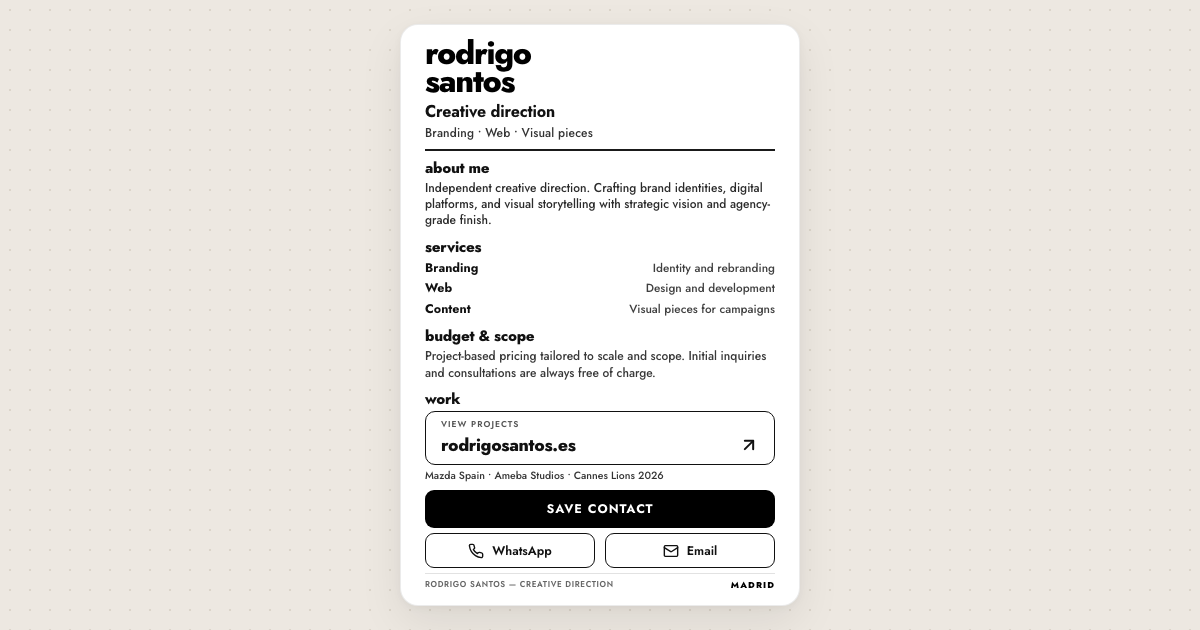
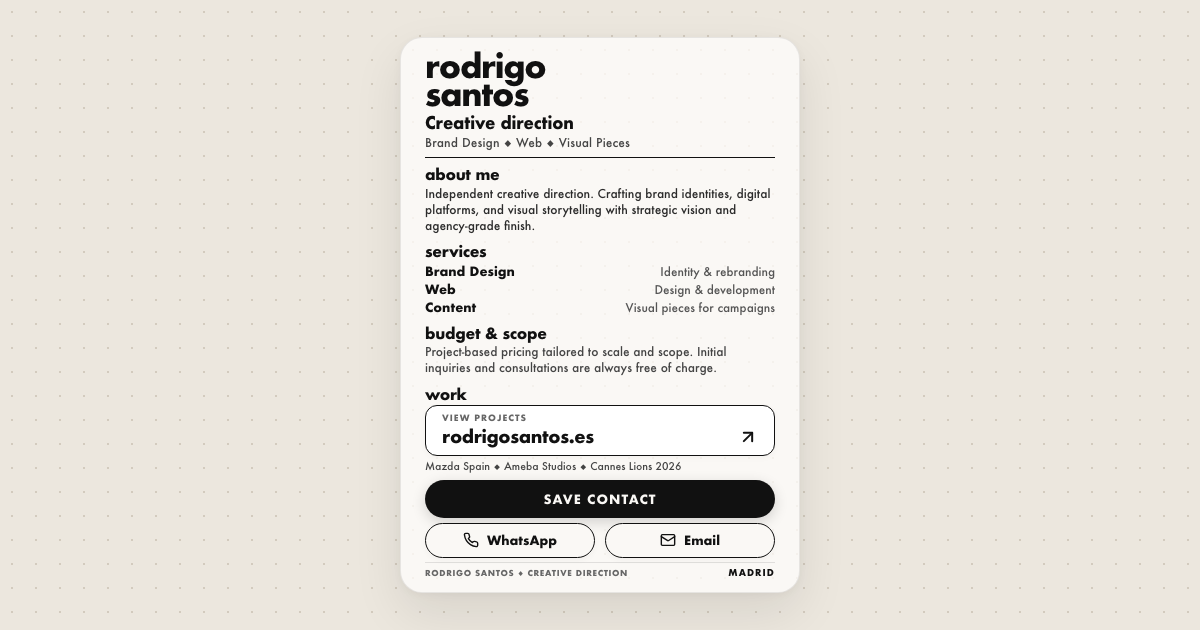
design(vcard): align card with website visual identity and editorial tokens

Changed region(s): [[0.3392, 0.0302, 0.6783, 0.9651], [0.5242, 0.4222, 0.6475, 0.5127], [0.6167, 0.6937, 0.6475, 0.7238]]

diff --git a/src/components/VirtualCard/VirtualCard.css b/src/components/VirtualCard/VirtualCard.css
@@ -1,6 +1,10 @@
 /* =======================================================
    Virtual Business Card — Rodrigo Santos (/hola & /hello)
-   Solid editorial layout: bold type & tight section spacing
+   Matches the exact design language of rodrigosantos.es:
+   - Ivory paper sheet (#FAF8F5) on studio dot grid (#ECE7DE)
+   - Pill / capsule action buttons (border-radius: 999px)
+   - Exclusively Futura / Jost typography with tight line-height
+   - Subtle paper grain & tactile micro-interactions
    ======================================================= */
 
 .vcard-page {
@@ -12,19 +16,19 @@
   display: flex;
   justify-content: center;
   align-items: center;
-  /* Warm subtle studio paper background */
-  background-color: #EDE8E1;
-  background-image: radial-gradient(#dcd5ca 0.75px, transparent 0.75px);
-  background-size: 20px 20px;
+  /* Studio canvas backdrop matching CurriculumVitae.css & index.css */
+  background-color: #ECE7DE;
+  background-image: radial-gradient(#d3cbbe 0.75px, transparent 0.75px);
+  background-size: 24px 24px;
   color: #111111;
-  font-family: 'Jost', 'Futura', -apple-system, BlinkMacSystemFont, 'Segoe UI', Roboto, sans-serif;
+  font-family: var(--font-body, 'Futura', 'Futura-Medium', 'Jost', sans-serif);
   -webkit-font-smoothing: antialiased;
   -moz-osx-font-smoothing: grayscale;
   padding: clamp(8px, 1.8vh, 18px) clamp(10px, 3vw, 20px);
   box-sizing: border-box;
 }
 
-/* Card Container — rounded, compact, content-focused */
+/* Card Sheet — Luxury ivory paper with subtle grain & rounded corners */
 .vcard-container {
   width: 100%;
   max-width: 400px;
@@ -38,11 +42,24 @@
   flex-direction: column;
   justify-content: space-between;
   padding: clamp(14px, 2.1vh, 22px) clamp(18px, 4.8vw, 24px);
-  background-color: #ffffff;
-  border-radius: 18px;
+  background-color: #FAF8F5;
+  border-radius: 22px;
   border: 1px solid rgba(0, 0, 0, 0.08);
-  box-shadow: 0 16px 44px rgba(0, 0, 0, 0.08), 0 2px 8px rgba(0, 0, 0, 0.04);
+  box-shadow: 0 20px 50px rgba(0, 0, 0, 0.09), 0 2px 8px rgba(0, 0, 0, 0.04);
   box-sizing: border-box;
+  position: relative;
+}
+
+/* Delicate subtle paper grain matching the portfolio sheet */
+.vcard-container::before {
+  content: '';
+  position: absolute;
+  inset: 0;
+  border-radius: 22px;
+  background-image: radial-gradient(#d3cbbe 0.75px, transparent 0.75px);
+  background-size: 24px 24px;
+  opacity: 0.15;
+  pointer-events: none;
 }
 
 .vcard-container::-webkit-scrollbar {
@@ -53,6 +70,8 @@
 .vcard-header {
   flex-shrink: 0;
   margin-bottom: clamp(6px, 1vh, 10px);
+  position: relative;
+  z-index: 2;
 }
 
 .vcard-brand {
@@ -61,13 +80,13 @@
 }
 
 .vcard-name {
-  font-family: 'Jost', 'Futura', sans-serif;
+  font-family: var(--font-display, 'Futura', 'Futura-Bold', 'Jost', sans-serif);
   font-size: clamp(32px, 4.4vh, 42px);
   font-weight: 800;
   line-height: 0.88;
   letter-spacing: -0.04em;
   text-transform: lowercase;
-  color: #000000;
+  color: #111111;
   margin: 0 0 clamp(4px, 0.7vh, 8px) 0;
   display: flex;
   flex-direction: column;
@@ -78,7 +97,7 @@
 }
 
 .vcard-role {
-  font-family: 'Jost', 'Futura', sans-serif;
+  font-family: var(--font-display, 'Futura', 'Futura-Medium', 'Jost', sans-serif);
   font-size: clamp(16px, 2.1vh, 19.5px);
   font-weight: 700;
   color: #111111;
@@ -89,7 +108,7 @@
 .vcard-tags {
   font-size: clamp(12px, 1.55vh, 13.8px);
   font-weight: 500;
-  color: #333333;
+  color: #444444;
   margin: 0;
   letter-spacing: 0.01em;
 }
@@ -97,7 +116,7 @@
 .vcard-divider {
   border: none;
   height: 1.2px;
-  background-color: #1a1a1a;
+  background-color: #111111;
   margin: clamp(7px, 1.1vh, 11px) 0 0 0;
 }
 
@@ -109,6 +128,8 @@
   justify-content: flex-start;
   gap: clamp(7px, 1.2vh, 12px);
   min-height: 0;
+  position: relative;
+  z-index: 2;
 }
 
 .vcard-section {
@@ -117,7 +138,7 @@
 }
 
 .vcard-section__title {
-  font-family: 'Jost', 'Futura', sans-serif;
+  font-family: var(--font-display, 'Futura', 'Futura-Bold', 'Jost', sans-serif);
   font-size: clamp(15px, 2vh, 18px);
   font-weight: 800;
   text-transform: lowercase;
@@ -135,7 +156,7 @@
 }
 
 .vcard-section__text--budget {
-  color: #383838;
+  color: #444444;
 }
 
 /* ---------- Services List ---------- */
@@ -162,7 +183,7 @@
 .vcard-service-desc {
   font-size: clamp(11.8px, 1.5vh, 13.5px);
   font-weight: 450;
-  color: #3f3f3f;
+  color: #555555;
   text-align: right;
   white-space: nowrap;
 }
@@ -170,31 +191,33 @@
 /* ---------- Work Card ---------- */
 .vcard-work-card {
   border: 1.5px solid #111111;
-  background-color: #ffffff;
-  padding: clamp(6px, 0.9vh, 9px) clamp(11px, 2.8vw, 15px);
+  background-color: #FFFFFF;
+  padding: clamp(6px, 0.9vh, 9px) clamp(12px, 2.8vw, 16px);
   display: flex;
   flex-direction: column;
   text-decoration: none;
   color: inherit;
-  transition: background-color 0.15s ease, transform 0.1s ease;
-  border-radius: 10px;
+  transition: all 0.2s cubic-bezier(0.25, 1, 0.5, 1);
+  border-radius: 12px;
   cursor: pointer;
+  box-shadow: 0 2px 6px rgba(0, 0, 0, 0.03);
 }
 
 .vcard-work-card:hover {
-  background-color: #f7f7f7;
+  background-color: #F4EFEB;
+  transform: translateY(-1px);
+  box-shadow: 0 6px 16px rgba(0, 0, 0, 0.07);
 }
 
 .vcard-work-card:active {
-  background-color: #eeeeee;
-  transform: scale(0.995);
+  transform: scale(0.99);
 }
 
 .vcard-work-card__top {
   font-size: clamp(8.5px, 1.15vh, 10px);
   font-weight: 600;
   letter-spacing: 0.12em;
-  color: #555555;
+  color: #666666;
   text-transform: uppercase;
   margin-bottom: 2px;
 }
@@ -206,7 +229,7 @@
 }
 
 .vcard-work-card__domain {
-  font-family: 'Jost', 'Futura', sans-serif;
+  font-family: var(--font-display, 'Futura', 'Futura-Bold', 'Jost', sans-serif);
   font-size: clamp(17.5px, 2.3vh, 21.5px);
   font-weight: 800;
   letter-spacing: -0.02em;
@@ -216,62 +239,70 @@
 .vcard-work-card__arrow {
   color: #111111;
   flex-shrink: 0;
-  transition: transform 0.15s ease;
+  transition: transform 0.2s ease;
 }
 
 .vcard-work-card:hover .vcard-work-card__arrow {
-  transform: translate(2px, -2px);
+  transform: translate(2.5px, -2.5px);
 }
 
 .vcard-work-credits {
   font-size: clamp(10.5px, 1.35vh, 12px);
   font-weight: 500;
-  color: #333333;
+  color: #444444;
   margin: clamp(3px, 0.45vh, 5px) 0 0 0;
 }
 
-/* ---------- Action Buttons ---------- */
+/* ---------- Action Buttons (Pill / Capsule Style) ---------- */
 .vcard-actions {
   flex-shrink: 0;
   display: flex;
   flex-direction: column;
   gap: clamp(5px, 0.8vh, 8px);
   margin-top: clamp(7px, 1.1vh, 12px);
+  position: relative;
+  z-index: 2;
 }
 
 .vcard-btn {
-  font-family: 'Jost', 'Futura', sans-serif;
+  font-family: var(--font-body, 'Futura', 'Futura-Medium', 'Jost', sans-serif);
   display: flex;
   align-items: center;
   justify-content: center;
-  border-radius: 9px;
+  border-radius: 999px;
   cursor: pointer;
   text-decoration: none;
-  transition: background-color 0.15s ease, opacity 0.15s ease, transform 0.1s ease;
+  transition: all 0.2s cubic-bezier(0.25, 1, 0.5, 1);
   user-select: none;
   -webkit-tap-highlight-color: transparent;
+  outline: none;
 }
 
 .vcard-btn:active {
-  transform: scale(0.99);
+  transform: scale(0.985);
 }
 
+/* Primary Button: Solid Dark Capsule with Hover Lift */
 .vcard-btn--primary {
   width: 100%;
   height: clamp(38px, 4.8vh, 45px);
-  background-color: #000000;
-  color: #ffffff;
+  background-color: #111111;
+  color: #FAF8F5;
   border: none;
   font-size: clamp(12.5px, 1.55vh, 14px);
   font-weight: 700;
   letter-spacing: 0.08em;
   text-transform: uppercase;
+  box-shadow: 0 4px 14px rgba(0, 0, 0, 0.16);
 }
 
 .vcard-btn--primary:hover {
-  background-color: #222222;
+  background-color: #000000;
+  transform: translateY(-1.5px);
+  box-shadow: 0 6px 20px rgba(0, 0, 0, 0.24);
 }
 
+/* Secondary Buttons Row */
 .vcard-btn-group {
   display: grid;
   grid-template-columns: 1fr 1fr;
@@ -281,16 +312,19 @@
 
 .vcard-btn--secondary {
   height: clamp(35px, 4.3vh, 41px);
-  background-color: #ffffff;
+  background-color: #FAF8F5;
   color: #111111;
-  border: 1.5px solid #111111;
+  border: 1.4px solid #111111;
   font-size: clamp(12.5px, 1.55vh, 14px);
   font-weight: 600;
   gap: 8px;
+  box-shadow: 0 2px 6px rgba(0, 0, 0, 0.04);
 }
 
 .vcard-btn--secondary:hover {
-  background-color: #f7f7f7;
+  background-color: #ECE7DE;
+  transform: translateY(-1.5px);
+  box-shadow: 0 4px 12px rgba(0, 0, 0, 0.08);
 }
 
 .vcard-btn--secondary svg {
@@ -301,12 +335,14 @@
 .vcard-footer {
   flex-shrink: 0;
   margin-top: clamp(4px, 0.7vh, 8px);
+  position: relative;
+  z-index: 2;
 }
 
 .vcard-footer-divider {
   border: none;
   height: 1px;
-  background-color: #e2e2e2;
+  background-color: rgba(0, 0, 0, 0.10);
   margin: 0 0 clamp(4px, 0.6vh, 6px) 0;
 }
 
@@ -328,6 +364,6 @@
   font-size: clamp(9px, 1.15vh, 10.5px);
   font-weight: 800;
   letter-spacing: 0.12em;
-  color: #000000;
+  color: #111111;
   text-transform: uppercase;
 }

diff --git a/src/components/VirtualCard/VirtualCard.jsx b/src/components/VirtualCard/VirtualCard.jsx
@@ -4,7 +4,7 @@ import './VirtualCard.css'
 const translations = {
   es: {
     role: 'Dirección creativa',
-    tags: 'Diseño de marca • Web • Piezas visuales',
+    tags: 'Diseño de marca ◆ Web ◆ Piezas visuales',
     aboutTitle: 'sobre mí',
     aboutText: 'Dirección creativa independiente. Diseño identidades de marca, plataformas web y narrativa audiovisual con visión estratégica y acabado de agencia.',
     servicesTitle: 'servicios',
@@ -17,36 +17,36 @@ const translations = {
     budgetText: 'Presupuesto por proyecto según escala y envergadura. Consultas y primeras conversaciones libres y sin compromiso.',
     workTitle: 'trabajos',
     viewProjects: 'VER PROYECTOS',
-    credits: 'Mazda España • Ameba Studios • Cannes Lions 2026',
+    credits: 'Mazda España ◆ Ameba Studios ◆ Cannes Lions 2026',
     saveContact: 'GUARDAR CONTACTO',
     whatsappMessage: 'Hola Rodrigo',
-    footerAuthor: 'RODRIGO SANTOS — DIRECCIÓN CREATIVA',
+    footerAuthor: 'RODRIGO SANTOS ◆ DIRECCIÓN CREATIVA',
     footerLocation: 'MADRID',
     vcardTitle: 'Dirección creativa',
     vcardNote: 'Dirección creativa independiente enfocada en diseño de marca, web y contenido con calidad de agencia.',
   },
   en: {
     role: 'Creative direction',
-    tags: 'Branding • Web • Visual pieces',
+    tags: 'Brand Design ◆ Web ◆ Visual Pieces',
     aboutTitle: 'about me',
     aboutText: 'Independent creative direction. Crafting brand identities, digital platforms, and visual storytelling with strategic vision and agency-grade finish.',
     servicesTitle: 'services',
     services: [
-      { name: 'Branding', desc: 'Identity and rebranding' },
-      { name: 'Web', desc: 'Design and development' },
+      { name: 'Brand Design', desc: 'Identity & rebranding' },
+      { name: 'Web', desc: 'Design & development' },
       { name: 'Content', desc: 'Visual pieces for campaigns' },
     ],
     budgetTitle: 'budget & scope',
     budgetText: 'Project-based pricing tailored to scale and scope. Initial inquiries and consultations are always free of charge.',
     workTitle: 'work',
     viewProjects: 'VIEW PROJECTS',
-    credits: 'Mazda Spain • Ameba Studios • Cannes Lions 2026',
+    credits: 'Mazda Spain ◆ Ameba Studios ◆ Cannes Lions 2026',
     saveContact: 'SAVE CONTACT',
     whatsappMessage: 'Hello Rodrigo',
-    footerAuthor: 'RODRIGO SANTOS — CREATIVE DIRECTION',
+    footerAuthor: 'RODRIGO SANTOS ◆ CREATIVE DIRECTION',
     footerLocation: 'MADRID',
     vcardTitle: 'Creative Director',
-    vcardNote: 'Independent creative direction focused on branding, web and content with agency caliber.',
+    vcardNote: 'Independent creative direction focused on brand design, web and content with agency caliber.',
   },
 }
 
